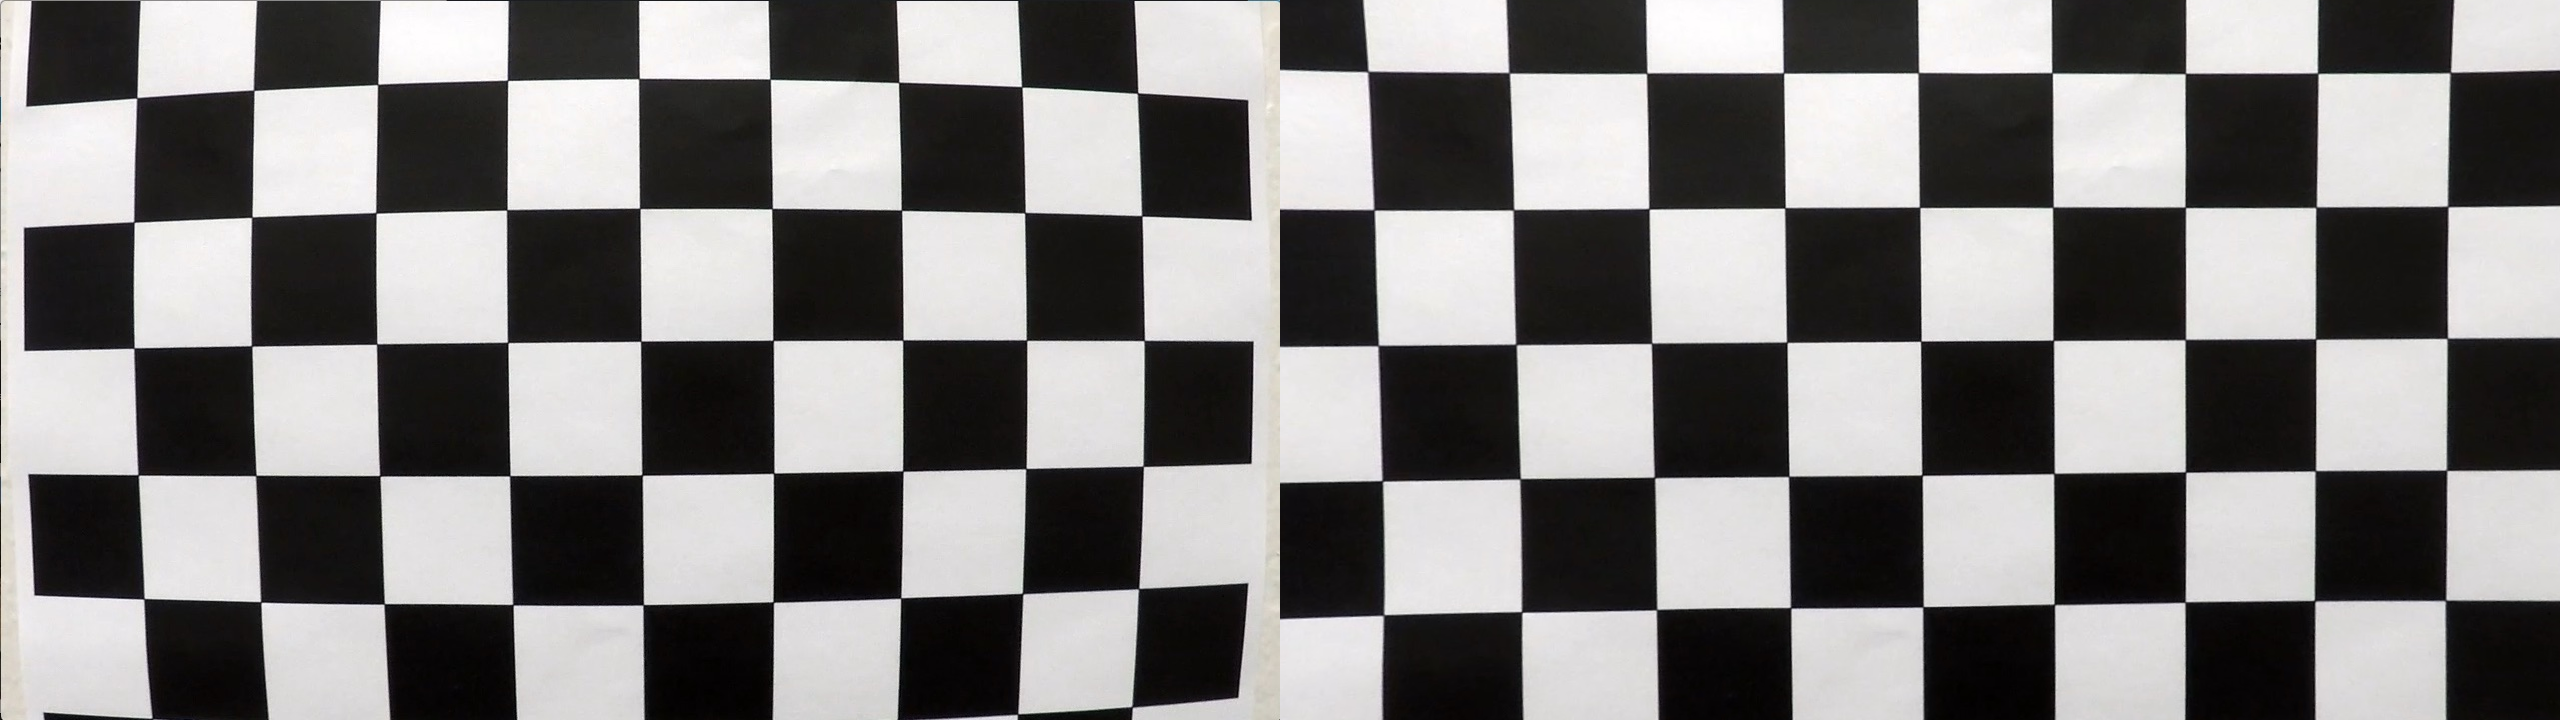
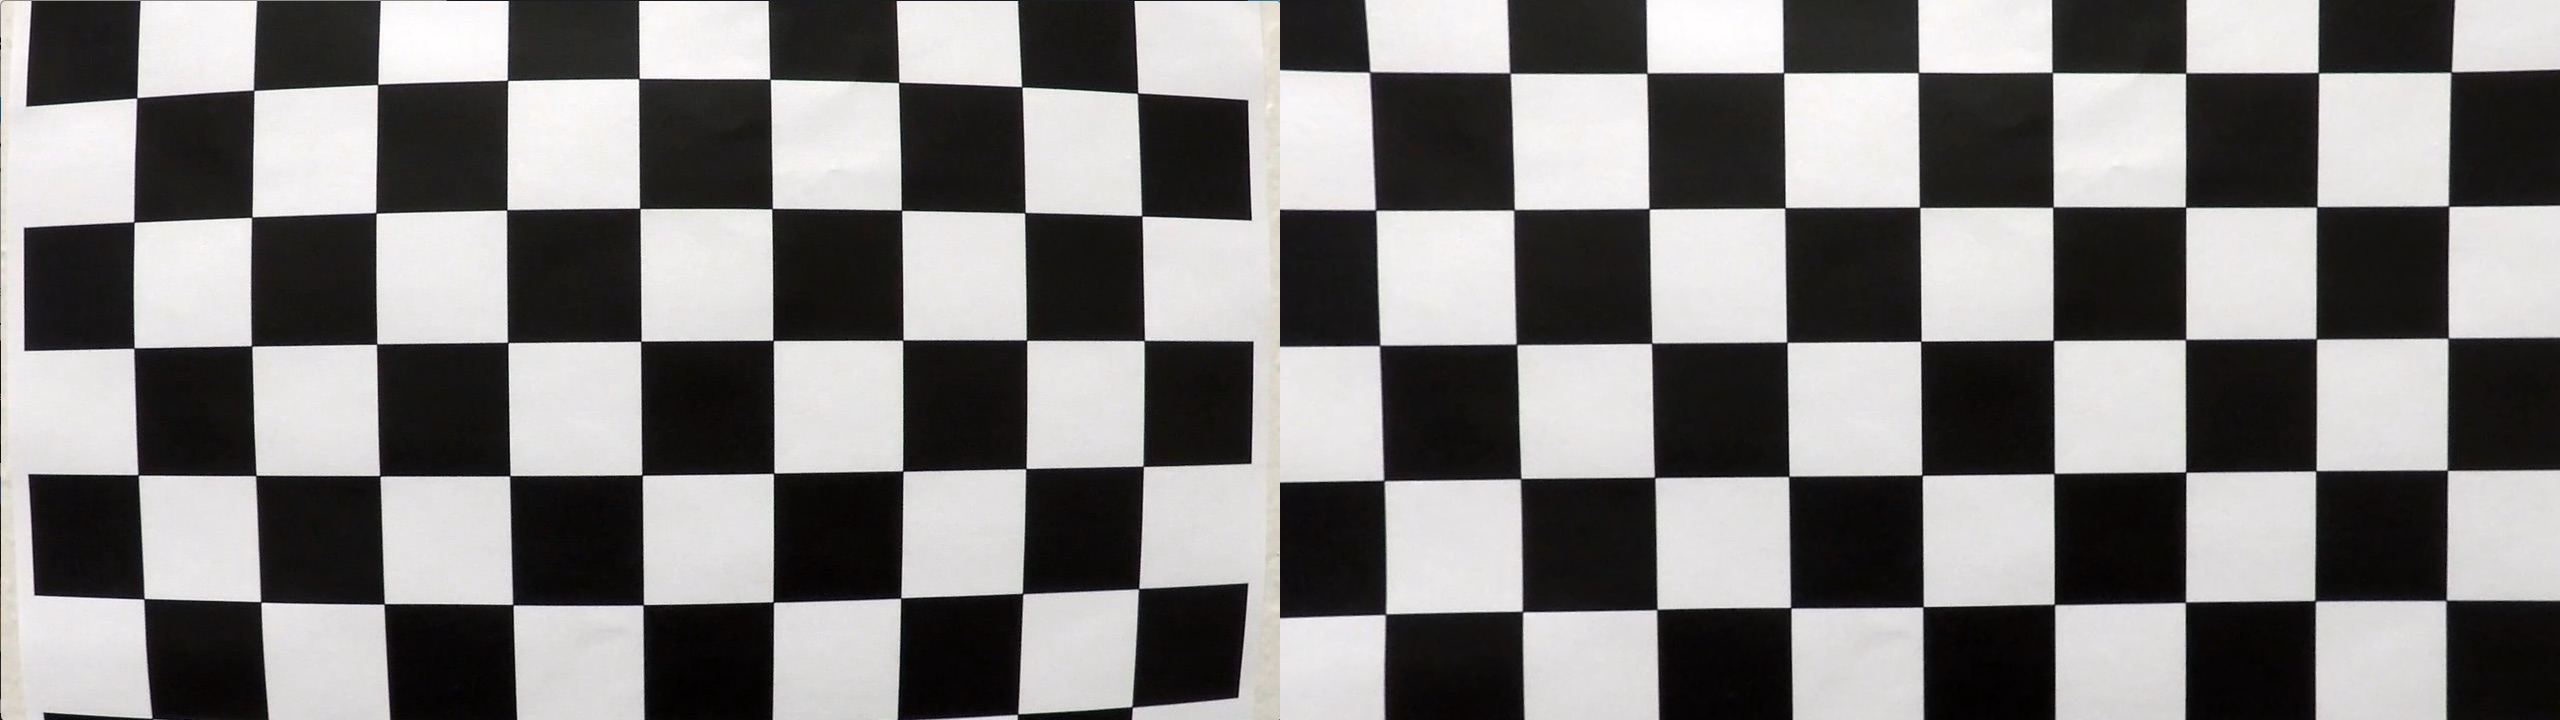
Calibration fix

diff --git a/calibration.py b/calibration.py
@@ -2,28 +2,33 @@ import glob
 import cv2
 import numpy as np
 
-rows = 9
-cols = 6
-
 criteria = (cv2.TERM_CRITERIA_MAX_ITER + cv2.TERM_CRITERIA_EPS, 30, 0.001)
 
-objectPoints = np.zeros((rows * cols, 3), np.float32)
-objectPoints[:, :2] = np.mgrid[0:rows, 0:cols].T.reshape(-1, 2)
+board_sizes = [(9, 6), (8, 6), (9, 5), (7, 6), (8, 5), (6, 6), (9, 4)]
 
 objectPointsArray = []
 imgPointsArray = []
 
-for path in glob.glob('camera_cal/calibration*.jpg'):
+for path in sorted(glob.glob('camera_cal/calibration*.jpg')):
     img = cv2.imread(path)
     gray = cv2.cvtColor(img, cv2.COLOR_BGR2GRAY)
 
-    ret, corners = cv2.findChessboardCorners(gray, (rows, cols), None)
+    ret, corners, size = False, None, None
+    for cols, rows in board_sizes:
+        ret, corners = cv2.findChessboardCorners(gray, (cols, rows), None)
+        if ret:
+            size = (cols, rows)
+            break
 
     if ret:
         corners = cv2.cornerSubPix(gray, corners, (11, 11), (-1, -1), criteria)
+        objectPoints = np.zeros((size[0] * size[1], 3), np.float32)
+        objectPoints[:, :2] = np.mgrid[0:size[0], 0:size[1]].T.reshape(-1, 2)
         objectPointsArray.append(objectPoints)
         imgPointsArray.append(corners)
-        cv2.drawChessboardCorners(img, (rows, cols), corners, ret)
+
+        cv2.drawChessboardCorners(img, size, corners, ret)
+        print(f"Pronađeno {size[0]}x{size[1]} uglova: {path}")
     else:
         print("Uglovi nisu pronađeni:", path)
 
@@ -31,6 +36,9 @@ for path in glob.glob('camera_cal/calibration*.jpg'):
     cv2.waitKey(20)
 
 cv2.destroyAllWindows()
+
+if len(objectPointsArray) < 3:
+    raise RuntimeError(f"Kalibracija nije moguća: pronađeno samo {len(objectPointsArray)} validnih slika (potrebno bar 3).")
 
 ret, mtx, dist, rvecs, tvecs = cv2.calibrateCamera(objectPointsArray, imgPointsArray, gray.shape[::-1], None, None)
 np.savez('calib.npz', mtx=mtx, dist=dist, rvecs=rvecs, tvecs=tvecs)
